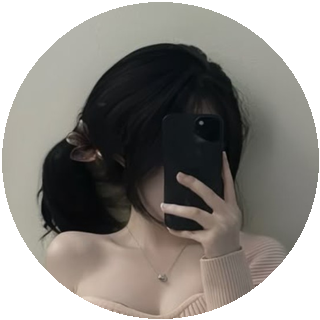
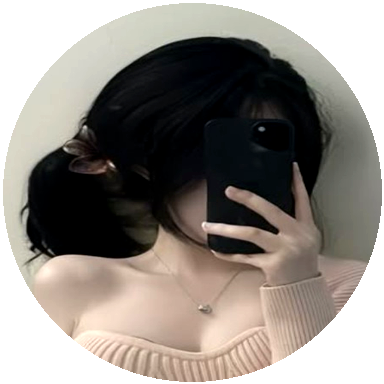
Optimize OniRoai v1.1 Android

diff --git a/README.md b/README.md
@@ -1,13 +1,10 @@
-# MinhQuan + OniRoai v1.0 (Godot 4.5.1)
+# OniRoai v1.1 — Android optimization trial
 
-- Giữ giao diện ngang và loading avatar MinhQuan xoay 3 giây.
-- Chỉ nhập key `FreeKey_MinhQuan`, bỏ màn hình đăng nhập tài khoản.
-- Đổi placeholder thành `Nhập Key`.
-- Dưới hộp key có Admin: Nguyễn Minh Quân, Zalo: 0899174526, Telegram: @mquan08.
-- Key đúng chuyển thẳng vào game OniRoai (qua cảnh boot).
-- Trong game xuất hiện bong bóng nhỏ hình tròn dùng ảnh người dùng cung cấp `assets/minhquan/bubble_avatar.png`. Nhấn bong bóng để mở menu ở giữa màn hình.
-- ESP ĐỊCH và AIM ĐẦU **chỉ là các dòng minh họa, không có chức năng thực**.
-- Nhấn dấu ✕ hoặc vùng tối bên ngoài để đóng menu.
-- `scripts/minhquan_overlay.gd` là autoload, duy trì khi chuyển cảnh.
+- Tên ứng dụng và nhãn Android: OniRoai.
+- Giữ màn hình nhập key MinhQuan và chuyển thẳng vào game.
+- Avatar bong bóng lấy từ ảnh người dùng gửi: crop cận cảnh hơn, tăng sáng và tương phản, tăng kích thước 58 lên 76 px.
+- Giữ menu ESP ĐỊCH / AIM ĐẦU chỉ để minh họa, không hoạt động.
+- Giữ renderer GL Compatibility, giảm render scale 3D còn 70%, bóng directional shadow 2048 -> 1024, tắt MSAA và giảm lọc anisotropic.
+- APK dự kiến: output/OniRoai-v1.1.apk.
 
-Build APK bằng workflow GitHub Actions có sẵn. Chưa xác nhận build thành công hoặc chạy trên thiết bị. Key được kiểm tra cục bộ, không phải xác thực máy chủ.
+**Chưa đo FPS thực tế và chưa xác nhận APK build thành công.** 60 FPS không được bảo đảm; cần kiểm tra GPU/CPU profiler trên máy. Các tối ưu hiện tại là bước đầu, chưa bao gồm LOD/occlusion/AI profiling chuyên sâu.
